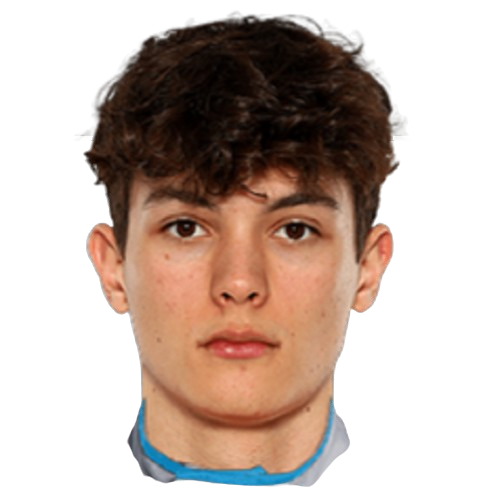
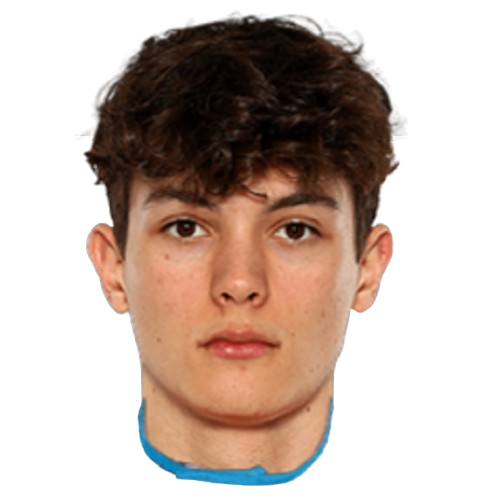
skuska vyber jazdcov

Changed region(s): [[0.54, 0.81, 0.72, 0.99], [0.24, 0.84, 0.36, 0.99]]

diff --git a/F1 Manager 2026/Picking Team/Drivers_Pick.xaml b/F1 Manager 2026/Picking Team/Drivers_Pick.xaml
@@ -1,13 +1,7 @@
 <Window x:Class="F1_Manager_2026.Picking_Team.Drivers_Pick"
         xmlns="http://schemas.microsoft.com/winfx/2006/xaml/presentation"
         xmlns:x="http://schemas.microsoft.com/winfx/2006/xaml"
-        xmlns:d="http://schemas.microsoft.com/expression/blend/2008"
-        xmlns:mc="http://schemas.openxmlformats.org/markup-compatibility/2006"
-        xmlns:local="clr-namespace:F1_Manager_2026.Picking_Team"
-        WindowState="Maximized"
-        WindowStyle="None"
-        mc:Ignorable="d"
-        Title="Drivers_Pick" Height="1080" Width="1920">
+        WindowState="Maximized" WindowStyle="None" Title="Drivers_Pick" Height="1080" Width="1920">
 
     <Grid Background="#0F0F0F">
         <Grid.RowDefinitions>
@@ -22,106 +16,51 @@
                 <Setter Property="BorderThickness" Value="2"/>
                 <Setter Property="CornerRadius" Value="8"/>
                 <Setter Property="Margin" Value="15"/>
-                <Setter Property="Width" Value="220"/>
-                <Setter Property="Height" Value="320"/>
-                <Setter Property="Cursor" Value="Hand"/>
-
-                <Setter Property="RenderTransformOrigin" Value="0.5,0.5"/>
-                <Setter Property="RenderTransform">
-                    <Setter.Value>
-                        <ScaleTransform ScaleX="1" ScaleY="1"/>
-                    </Setter.Value>
-                </Setter>
-
+                <Setter Property="Width" Value="250"/>
+                <Setter Property="Height" Value="380"/>
                 <Style.Triggers>
                     <Trigger Property="IsMouseOver" Value="True">
                         <Setter Property="BorderBrush" Value="Red"/>
-
-                        <Setter Property="Effect">
-                            <Setter.Value>
-                                <DropShadowEffect Color="Red" BlurRadius="20" ShadowDepth="0" Opacity="0.7"/>
-                            </Setter.Value>
-                        </Setter>
-
-                        <Trigger.EnterActions>
-                            <BeginStoryboard>
-                                <Storyboard>
-                                    <DoubleAnimation Storyboard.TargetProperty="RenderTransform.(ScaleTransform.ScaleX)"
-                                                     To="1.05" Duration="0:0:0.2"/>
-                                    <DoubleAnimation Storyboard.TargetProperty="RenderTransform.(ScaleTransform.ScaleY)"
-                                                     To="1.05" Duration="0:0:0.2"/>
-                                </Storyboard>
-                            </BeginStoryboard>
-                        </Trigger.EnterActions>
-
-                        <Trigger.ExitActions>
-                            <BeginStoryboard>
-                                <Storyboard>
-                                    <DoubleAnimation Storyboard.TargetProperty="RenderTransform.(ScaleTransform.ScaleX)"
-                                                     To="1" Duration="0:0:0.2"/>
-                                    <DoubleAnimation Storyboard.TargetProperty="RenderTransform.(ScaleTransform.ScaleY)"
-                                                     To="1" Duration="0:0:0.2"/>
-                                </Storyboard>
-                            </BeginStoryboard>
-                        </Trigger.ExitActions>
                     </Trigger>
                 </Style.Triggers>
             </Style>
         </Grid.Resources>
-        <Border Grid.Row="0" VerticalAlignment="Top" Height="80" Background="#1A1A1A" BorderBrush="Red" BorderThickness="0,0,0,3">
-            <Label Content="F1 DRIVER SELECTION 2026" Foreground="White" FontSize="32" FontFamily="Bahnschrift" 
-                   HorizontalAlignment="Center" VerticalAlignment="Center" FontWeight="Bold"/>
+
+        <Border Grid.Row="0" Background="#1A1A1A" BorderBrush="Red" BorderThickness="0,0,0,3">
+            <Label Content="F1 DRIVER SELECTION 2026" Foreground="White" FontSize="32" HorizontalAlignment="Center" VerticalAlignment="Center" FontWeight="Bold"/>
         </Border>
 
-        <ScrollViewer Grid.Row="1" VerticalScrollBarVisibility="Auto" Margin="20">
-            <WrapPanel Width="1860">
-
-                <Border Style="{StaticResource DriverCardStyle}">
-                    <Grid>
-                        <StackPanel Margin="10">
-                            <TextBlock Text="92" Foreground="Red" FontSize="36" FontWeight="Bold" HorizontalAlignment="Right" Margin="0,0,5,0" FontFamily="Bahnschrift"/>
-
-                            <Ellipse Width="110" Height="110" Fill="#252525" Stroke="#444" StrokeThickness="1" Margin="0,5,0,15"/>
-
-                            <TextBlock Text="Max Verstappen" Foreground="White" FontSize="18" FontWeight="Bold" HorizontalAlignment="Center" FontFamily="Bahnschrift"/>
-                            <TextBlock Text="Red Bull Racing" Foreground="#AAA" FontSize="12" HorizontalAlignment="Center" Margin="0,2,0,15"/>
-
-                            <Separator Background="#333" Margin="15,0"/>
-
-                            <TextBlock Text="COST: $25.0M" Foreground="White" FontSize="14" HorizontalAlignment="Center" Margin="0,15,0,0" FontWeight="Bold"/>
-                        </StackPanel>
-                    </Grid>
-                </Border>
-
-                <Border Style="{StaticResource DriverCardStyle}">
-                    <Grid>
-                        <StackPanel Margin="10">
-                            <TextBlock Text="89" Foreground="Red" FontSize="36" FontWeight="Bold" HorizontalAlignment="Right" Margin="0,0,5,0" FontFamily="Bahnschrift"/>
-                            <Ellipse Width="110" Height="110" Fill="#252525" Stroke="#444" StrokeThickness="1" Margin="0,5,0,15"/>
-                            <TextBlock Text="Charles Leclerc" Foreground="White" FontSize="18" FontWeight="Bold" HorizontalAlignment="Center" FontFamily="Bahnschrift"/>
-                            <TextBlock Text="Ferrari" Foreground="#AAA" FontSize="12" HorizontalAlignment="Center" Margin="0,2,0,15"/>
-                            <Separator Background="#333" Margin="15,0"/>
-                            <TextBlock Text="COST: $22.0M" Foreground="White" FontSize="14" HorizontalAlignment="Center" Margin="0,15,0,0" FontWeight="Bold"/>
-                        </StackPanel>
-                    </Grid>
-                </Border>
-
-                <Border Style="{StaticResource DriverCardStyle}">
-                    <Grid>
-                        <StackPanel Margin="10">
-                            <TextBlock Text="88" Foreground="Red" FontSize="36" FontWeight="Bold" HorizontalAlignment="Right" Margin="0,0,5,0" FontFamily="Bahnschrift"/>
-                            <Ellipse Width="110" Height="110" Fill="#252525" Stroke="#444" StrokeThickness="1" Margin="0,5,0,15"/>
-                            <TextBlock Text="Lando Norris" Foreground="White" FontSize="18" FontWeight="Bold" HorizontalAlignment="Center" FontFamily="Bahnschrift"/>
-                            <TextBlock Text="McLaren" Foreground="#AAA" FontSize="12" HorizontalAlignment="Center" Margin="0,2,0,15"/>
-                            <Separator Background="#333" Margin="15,0"/>
-                            <TextBlock Text="COST: $20.0M" Foreground="White" FontSize="14" HorizontalAlignment="Center" Margin="0,15,0,0" FontWeight="Bold"/>
-                        </StackPanel>
-                    </Grid>
-                </Border>
-
-            </WrapPanel>
+        <ScrollViewer Grid.Row="1" VerticalScrollBarVisibility="Auto" Margin="10">
+            <ItemsControl x:Name="DriversItemsControl">
+                <ItemsControl.ItemsPanel>
+                    <ItemsPanelTemplate>
+                        <WrapPanel HorizontalAlignment="Center"/>
+                    </ItemsPanelTemplate>
+                </ItemsControl.ItemsPanel>
+                <ItemsControl.ItemTemplate>
+                    <DataTemplate>
+                        <Border Style="{StaticResource DriverCardStyle}">
+                            <Grid>
+                                <Grid.RowDefinitions>
+                                    <RowDefinition Height="Auto"/>
+                                    <RowDefinition Height="*"/>
+                                    <RowDefinition Height="Auto"/>
+                                </Grid.RowDefinitions>
+                                <TextBlock Text="{Binding Skill}" Foreground="Red" FontSize="32" FontWeight="Bold" HorizontalAlignment="Right" Margin="0,5,10,0" Panel.ZIndex="10"/>
+                                <Grid Grid.Row="1">
+                                    <Image Source="{Binding SuitPath}" VerticalAlignment="Bottom" Stretch="Uniform" Height="220"/>
+                                    <Image Source="{Binding PhotoPath}" Width="160" VerticalAlignment="Top" Stretch="Uniform" Margin="0,10,0,0"/>
+                                </Grid>
+                                <StackPanel Grid.Row="2" Background="#111" Margin="2">
+                                    <TextBlock Text="{Binding Name}" Foreground="White" FontSize="18" FontWeight="Bold" HorizontalAlignment="Center" Margin="0,5,0,0"/>
+                                    <TextBlock Text="{Binding Team}" Foreground="#888" FontSize="12" HorizontalAlignment="Center" Margin="0,0,0,5"/>
+                                    <TextBlock Text="{Binding FormattedCost}" Foreground="White" FontSize="16" HorizontalAlignment="Center" Margin="0,10,0,10" FontWeight="Bold"/>
+                                </StackPanel>
+                            </Grid>
+                        </Border>
+                    </DataTemplate>
+                </ItemsControl.ItemTemplate>
+            </ItemsControl>
         </ScrollViewer>
-        <Label Name="Money_Label" Foreground="White" FontSize="50" HorizontalContentAlignment="Center" Content="" HorizontalAlignment="Left" Margin="20,-11,0,0" VerticalAlignment="Top" Height="70" Width="649"/>
-
     </Grid>
 </Window>

diff --git a/F1 Manager 2026/Picking Team/Main_TeamChoosing.xaml b/F1 Manager 2026/Picking Team/Main_TeamChoosing.xaml
@@ -42,7 +42,7 @@
             <Label Content="SELECT YOUR ORIGIN / TEAM" Foreground="White" FontSize="18" HorizontalAlignment="Center" FontFamily="Bahnschrift" Margin="0,0,0,20"/>
 
             <UniformGrid Columns="4" Width="400" Height="80">
-                <Button Content="1" Margin="5,0,5,0" Background="#222" Foreground="White" FontSize="28" BorderBrush="White" Click="Button_Click" Cursor="Hand" Height="70" VerticalAlignment="Center"/>
+                <Button Content="1" Margin="5,0,5,5" Background="#222" Foreground="White" FontSize="28" BorderBrush="White" Click="Button_Click" Cursor="Hand" Height="70" VerticalAlignment="Bottom"/>
                 <Button Content="2" Margin="5" Background="#222" Foreground="White" FontSize="28" BorderBrush="White" Click="Button_Click_1" Cursor="Hand"/>
                 <Button Content="3" Margin="5" Background="#222" Foreground="White" FontSize="28" BorderBrush="White" Click="Button_Click_2" Cursor="Hand"/>
                 <Button Content="4" Margin="5" Background="#222" Foreground="White" FontSize="28" BorderBrush="White" Click="Button_Click_3" Cursor="Hand"/>

diff --git a/F1 Manager 2026/Options.xaml b/F1 Manager 2026/Options.xaml
@@ -73,7 +73,7 @@
             </Button>
         </StackPanel>
 
-        <Button Content="Button" 
+        <Button Content="Testing" 
                 HorizontalAlignment="Right" 
                 VerticalAlignment="Bottom" 
                 Margin="0,0,50,50" 

diff --git a/F1 Manager 2026/Drivers.cs b/F1 Manager 2026/Drivers.cs
@@ -1,107 +1,124 @@
 using System;
 using System.Collections.Generic;
-using System.Text;
-using static F1_Manager_2026.Drivers;
 
 namespace F1_Manager_2026
 {
     public class Drivers
     {
+        private string _team;
         public string Name { get; set; }
         public int Number { get; set; }
-        public string PhotoPath { get; set; } // Cesta k obrázku v Resources
+        public string PhotoPath { get; set; }
+        public string SuitPath { get; private set; } // Nastavuje sa automaticky cez Team
         public int Skill { get; set; }
-        public string Team { get; set; }
 
-        // McLAREN
+        public string Team
+        {
+            get => _team;
+            set
+            {
+                _team = value;
+                UpdateSuitPath(); // Automatická zmena kombinézy pri zmene tímu
+            }
+        }
+
+        public string FormattedCost => $"COST: ${((Skill - 60) * 0.8):F1}M";
+
+        // Logika priradenia kombinézy podľa názvu tímu
+        private void UpdateSuitPath()
+        {
+            string folder = "Assets/Suits/";
+            SuitPath = _team switch
+            {
+                "McLaren" => folder + "suit_mclaren.png",
+                "Ferrari" => folder + "suit_ferrari.png",
+                "Red Bull Racing" => folder + "suit_redbull.png",
+                "Mercedes" => folder + "suit_mercedes.png",
+                "Aston Martin" => folder + "suit_astonmartin.png",
+                "Alpine" => folder + "suit_alpine.png",
+                "Haas" => folder + "suit_haas.png",
+                "RB" => folder + "suit_rb.png",
+                "Williams" => folder + "suit_williams.png",
+                "Cadillac" => folder + "suit_cadillac.png",
+                "Audi" => folder + "suit_audi.png",
+                "ART Grand Prix" => folder + "suit_art.png",
+                "Invicta Racing" => folder + "suit_invicta.png",
+                "MP Motorsport" => folder + "suit_mp.png",
+                "Campos Racing" => folder + "suit_campos.png",
+                "Rodin Motorsport" => folder + "suit_rodin.png",
+                "DAMS Lucas Oil" => folder + "suit_dams.png",
+                "Trident" => folder + "suit_trident.png",
+                "Hitech" => folder + "suit_hitech.png",
+                "Prema" => folder + "suit_prema.png",
+                "Van Amersfoort Racing" => folder + "suit_var.png",
+                "AIX Racing" => folder + "suit_aix.png",
+                _ => folder + "suit_default.png"
+            };
+        }
+
+        // --- F1 DRIVERS ---
         public static Drivers Lando_Norris = new Drivers { Name = "Lando Norris", Number = 4, PhotoPath = "/Images/norris.png", Skill = 95, Team = "McLaren" };
         public static Drivers Oscar_Piastri = new Drivers { Name = "Oscar Piastri", Number = 81, PhotoPath = "/Images/piastri.png", Skill = 92, Team = "McLaren" };
-
-        // FERRARI
         public static Drivers Charles_Leclerc = new Drivers { Name = "Charles Leclerc", Number = 16, PhotoPath = "/Images/leclerc.png", Skill = 94, Team = "Ferrari" };
         public static Drivers Lewis_Hamilton = new Drivers { Name = "Lewis Hamilton", Number = 44, PhotoPath = "/Images/hamilton.png", Skill = 93, Team = "Ferrari" };
-
-        // RED BULL RACING
         public static Drivers Max_Verstappen = new Drivers { Name = "Max Verstappen", Number = 33, PhotoPath = "/Images/verstappen.png", Skill = 96, Team = "Red Bull Racing" };
         public static Drivers Isack_Hadjar = new Drivers { Name = "Isack Hadjar", Number = 6, PhotoPath = "/Images/hadjar.png", Skill = 80, Team = "Red Bull Racing" };
-
-        // MERCEDES
         public static Drivers George_Russell = new Drivers { Name = "George Russell", Number = 63, PhotoPath = "/Images/russell.png", Skill = 90, Team = "Mercedes" };
         public static Drivers Kimi_Antonelli = new Drivers { Name = "Kimi Antonelli", Number = 12, PhotoPath = "/Images/antonelli.png", Skill = 84, Team = "Mercedes" };
-
-        // ASTON MARTIN
         public static Drivers Fernando_Alonso = new Drivers { Name = "Fernando Alonso", Number = 14, PhotoPath = "/Images/alonso.png", Skill = 88, Team = "Aston Martin" };
         public static Drivers Lance_Stroll = new Drivers { Name = "Lance Stroll", Number = 18, PhotoPath = "/Images/stroll.png", Skill = 78, Team = "Aston Martin" };
-
-        // ALPINE
         public static Drivers Pierre_Gasly = new Drivers { Name = "Pierre Gasly", Number = 10, PhotoPath = "/Images/gasly.png", Skill = 85, Team = "Alpine" };
         public static Drivers Franco_Colapinto = new Drivers { Name = "Franco Colapinto", Number = 43, PhotoPath = "/Images/colapinto.png", Skill = 82, Team = "Alpine" };
-
-        // HAAS
         public static Drivers Oliver_Bearman = new Drivers { Name = "Oliver Bearman", Number = 87, PhotoPath = "/Images/bearman.png", Skill = 81, Team = "Haas" };
         public static Drivers Esteban_Ocon = new Drivers { Name = "Esteban Ocon", Number = 31, PhotoPath = "/Images/ocon.png", Skill = 83, Team = "Haas" };
-
-        // RB (Racing Bulls)
         public static Drivers Liam_Lawson = new Drivers { Name = "Liam Lawson", Number = 30, PhotoPath = "/Images/lawson.png", Skill = 83, Team = "RB" };
         public static Drivers Arvid_Lindblad = new Drivers { Name = "Arvid Lindblad", Number = 41, PhotoPath = "/Images/lindblad.png", Skill = 79, Team = "RB" };
-
-        // WILLIAMS
         public static Drivers Alex_Albon = new Drivers { Name = "Alex Albon", Number = 23, PhotoPath = "/Images/albon.png", Skill = 86, Team = "Williams" };
         public static Drivers Carlos_Sainz = new Drivers { Name = "Carlos Sainz", Number = 55, PhotoPath = "/Images/sainz.png", Skill = 91, Team = "Williams" };
-
-        // CADILLAC
         public static Drivers Valtteri_Bottas = new Drivers { Name = "Valtteri Bottas", Number = 77, PhotoPath = "/Images/bottas.png", Skill = 84, Team = "Cadillac" };
         public static Drivers Sergio_Perez = new Drivers { Name = "Sergio Perez", Number = 11, PhotoPath = "/Images/perez.png", Skill = 82, Team = "Cadillac" };
-
-        // AUDI
         public static Drivers Nico_Hulkenberg = new Drivers { Name = "Nico Hulkenberg", Number = 27, PhotoPath = "/Images/hulkenberg.png", Skill = 84, Team = "Audi" };
         public static Drivers Gabriel_Bortoleto = new Drivers { Name = "Gabriel Bortoleto", Number = 5, PhotoPath = "/Images/bortoleto.png", Skill = 80, Team = "Audi" };
 
-        /// F2 -------------------------------------------------------------------------------------------------------------------------------------------------------------------------
+        // --- F2 DRIVERS (Všetci majú default.png) ---
+        public static Drivers Tasanapol_Inthraphuvasak = new Drivers { Name = "Tasanapol Inthraphuvasak", Number = 1, Team = "ART Grand Prix", Skill = 72, PhotoPath = "/Images/default.png" };
+        public static Drivers Kush_Maini = new Drivers { Name = "Kush Maini", Number = 4, Team = "ART Grand Prix", Skill = 77, PhotoPath = "/Images/default.png" };
+        public static Drivers Joshua_Duerksen = new Drivers { Name = "Joshua Dürksen", Number = 2, Team = "Invicta Racing", Skill = 75, PhotoPath = "/Images/default.png" };
+        public static Drivers Rafael_Camara = new Drivers { Name = "Rafael Câmara", Number = 5, Team = "Invicta Racing", Skill = 78, PhotoPath = "/Images/default.png" };
+        public static Drivers Oliver_Goethe = new Drivers { Name = "Oliver Goethe", Number = 3, Team = "MP Motorsport", Skill = 76, PhotoPath = "/Images/default.png" };
+        public static Drivers Gabriele_Mini = new Drivers { Name = "Gabriele Minì", Number = 21, Team = "MP Motorsport", Skill = 78, PhotoPath = "/Images/default.png" };
+        public static Drivers Nikola_Tsolov = new Drivers { Name = "Nikola Tsolov", Number = 6, Team = "Campos Racing", Skill = 74, PhotoPath = "/Images/default.png" };
+        public static Drivers Noel_Leon = new Drivers { Name = "Noel León", Number = 7, Team = "Campos Racing", Skill = 74, PhotoPath = "/Images/default.png" };
+        public static Drivers Alex_Dunne = new Drivers { Name = "Alex Dunne", Number = 8, Team = "Rodin Motorsport", Skill = 73, PhotoPath = "/Images/default.png" };
+        public static Drivers Martinius_Stenshorne = new Drivers { Name = "Martinius Stenshorne", Number = 9, Team = "Rodin Motorsport", Skill = 72, PhotoPath = "/Images/default.png" };
+        public static Drivers Dino_Beganovic = new Drivers { Name = "Dino Beganovic", Number = 10, Team = "DAMS Lucas Oil", Skill = 77, PhotoPath = "/Images/default.png" };
+        public static Drivers Roman_Bilinski = new Drivers { Name = "Roman Bilinski", Number = 12, Team = "DAMS Lucas Oil", Skill = 70, PhotoPath = "/Images/default.png" };
+        public static Drivers Laurens_Van_Hoepen = new Drivers { Name = "Laurens van Hoepen", Number = 11, Team = "Trident", Skill = 73, PhotoPath = "/Images/default.png" };
+        public static Drivers Nixon_Bennett = new Drivers { Name = "Nixon Bennett", Number = 17, Team = "Trident", Skill = 68, PhotoPath = "/Images/default.png" };
+        public static Drivers Ritomo_Miyata = new Drivers { Name = "Ritomo Miyata", Number = 13, Team = "Hitech", Skill = 75, PhotoPath = "/Images/default.png" };
+        public static Drivers Colton_Herta = new Drivers { Name = "Colton Herta", Number = 14, Team = "Hitech", Skill = 82, PhotoPath = "/Images/default.png" };
+        public static Drivers Sebastian_Montoya = new Drivers { Name = "Sebastian Montoya", Number = 15, Team = "Prema", Skill = 71, PhotoPath = "/Images/default.png" };
+        public static Drivers Mari_Boya = new Drivers { Name = "Mari Boya", Number = 22, Team = "Prema", Skill = 72, PhotoPath = "/Images/default.png" };
+        public static Drivers Rafael_Villagomez = new Drivers { Name = "Rafael Villagómez", Number = 16, Team = "Van Amersfoort Racing", Skill = 70, PhotoPath = "/Images/default.png" };
+        public static Drivers Nicolas_Varrone = new Drivers { Name = "Nicolás Varrone", Number = 19, Team = "Van Amersfoort Racing", Skill = 71, PhotoPath = "/Images/default.png" };
+        public static Drivers Emerson_Fittipaldi = new Drivers { Name = "Emerson Fittipaldi Jr.", Number = 18, Team = "AIX Racing", Skill = 76, PhotoPath = "/Images/default.png" };
+        public static Drivers Devlin_Shields = new Drivers { Name = "Devlin Shields", Number = 20, Team = "AIX Racing", Skill = 67, PhotoPath = "/Images/default.png" };
 
-        // ART GRAND PRIX
-        public static Drivers Tasanapol_Inthraphuvasak = new Drivers { Name = "Tasanapol Inthraphuvasak", Number = 1, Team = "ART Grand Prix", Skill = 72 };
-        public static Drivers Kush_Maini = new Drivers { Name = "Kush Maini", Number = 4, Team = "ART Grand Prix", Skill = 77 };
-
-        // INVICTA RACING
-        public static Drivers Joshua_Duerksen = new Drivers { Name = "Joshua Dürksen", Number = 2, Team = "Invicta Racing", Skill = 75 };
-        public static Drivers Rafael_Camara = new Drivers { Name = "Rafael Câmara", Number = 5, Team = "Invicta Racing", Skill = 78 };
-
-        // MP MOTORSPORT
-        public static Drivers Oliver_Goethe = new Drivers { Name = "Oliver Goethe", Number = 3, Team = "MP Motorsport", Skill = 76 };
-        public static Drivers Gabriele_Mini = new Drivers { Name = "Gabriele Minì", Number = 21, Team = "MP Motorsport", Skill = 78 };
-
-        // CAMPOS RACING
-        public static Drivers Nikola_Tsolov = new Drivers { Name = "Nikola Tsolov", Number = 6, Team = "Campos Racing", Skill = 74 };
-        public static Drivers Noel_Leon = new Drivers { Name = "Noel León", Number = 7, Team = "Campos Racing", Skill = 74 };
-
-        // RODIN MOTORSPORT
-        public static Drivers Alex_Dunne = new Drivers { Name = "Alex Dunne", Number = 8, Team = "Rodin Motorsport", Skill = 73 };
-        public static Drivers Martinius_Stenshorne = new Drivers { Name = "Martinius Stenshorne", Number = 9, Team = "Rodin Motorsport", Skill = 72 };
-
-        // DAMS LUCAS OIL
-        public static Drivers Dino_Beganovic = new Drivers { Name = "Dino Beganovic", Number = 10, Team = "DAMS Lucas Oil", Skill = 77 };
-        public static Drivers Roman_Bilinski = new Drivers { Name = "Roman Bilinski", Number = 12, Team = "DAMS Lucas Oil", Skill = 70 };
-
-        // TRIDENT
-        public static Drivers Laurens_Van_Hoepen = new Drivers { Name = "Laurens van Hoepen", Number = 11, Team = "Trident", Skill = 73 };
-        public static Drivers Nixon_Bennett = new Drivers { Name = "Nixon Bennett", Number = 17, Team = "Trident", Skill = 68 };
-
-        // HITECH
-        public static Drivers Ritomo_Miyata = new Drivers { Name = "Ritomo Miyata", Number = 13, Team = "Hitech", Skill = 75 };
-        public static Drivers Colton_Herta = new Drivers { Name = "Colton Herta", Number = 14, Team = "Hitech", Skill = 82 };
-
-        // PREMA
-        public static Drivers Sebastian_Montoya = new Drivers { Name = "Sebastian Montoya", Number = 15, Team = "Prema", Skill = 71 };
-        public static Drivers Mari_Boya = new Drivers { Name = "Mari Boya", Number = 22, Team = "Prema", Skill = 72 };
-
-        // VAN AMERSFOORT RACING (VAR)
-        public static Drivers Rafael_Villagomez = new Drivers { Name = "Rafael Villagómez", Number = 16, Team = "Van Amersfoort Racing", Skill = 70 };
-        public static Drivers Nicolas_Varrone = new Drivers { Name = "Nicolás Varrone", Number = 19, Team = "Van Amersfoort Racing", Skill = 71 };
-
-        // AIX RACING
-        public static Drivers Emerson_Fittipaldi = new Drivers { Name = "Emerson Fittipaldi Jr.", Number = 18, Team = "AIX Racing", Skill = 76 };
-        public static Drivers Devlin_Shields = new Drivers { Name = "Devlin Shields", Number = 20, Team = "AIX Racing", Skill = 67 };
-
+        public static List<Drivers> GetAllDrivers()
+        {
+            return new List<Drivers>
+            {
+                Max_Verstappen, Lando_Norris, Charles_Leclerc, Lewis_Hamilton, Oscar_Piastri,
+                Carlos_Sainz, George_Russell, Fernando_Alonso, Alex_Albon, Pierre_Gasly,
+                Valtteri_Bottas, Nico_Hulkenberg, Kimi_Antonelli, Esteban_Ocon, Liam_Lawson,
+                Franco_Colapinto, Sergio_Perez, Colton_Herta, Oliver_Bearman, Isack_Hadjar,
+                Gabriel_Bortoleto, Arvid_Lindblad, Lance_Stroll,
+                Tasanapol_Inthraphuvasak, Kush_Maini, Joshua_Duerksen, Rafael_Camara,
+                Oliver_Goethe, Gabriele_Mini, Nikola_Tsolov, Noel_Leon, Alex_Dunne,
+                Martinius_Stenshorne, Dino_Beganovic, Roman_Bilinski, Laurens_Van_Hoepen,
+                Nixon_Bennett, Ritomo_Miyata, Sebastian_Montoya, Mari_Boya,
+                Rafael_Villagomez, Nicolas_Varrone, Emerson_Fittipaldi, Devlin_Shields
+            };
+        }
     }
 }

diff --git a/F1 Manager 2026/Picking Team/Drivers_Pick.xaml.cs b/F1 Manager 2026/Picking Team/Drivers_Pick.xaml.cs
@@ -1,26 +1,13 @@
-using System;
-using System.Collections.Generic;
-using System.Text;
-using System.Windows;
-using System.Windows.Controls;
-using System.Windows.Data;
-using System.Windows.Documents;
-using System.Windows.Input;
-using System.Windows.Media;
-using System.Windows.Media.Imaging;
-using System.Windows.Shapes;
+using System.Windows;
 
 namespace F1_Manager_2026.Picking_Team
 {
-    /// <summary>
-    /// Interaction logic for Drivers_Pick.xaml
-    /// </summary>
     public partial class Drivers_Pick : Window
     {
         public Drivers_Pick()
         {
             InitializeComponent();
-            Money_Label.Content = $"Budget: ${GameState.Budget:N0}";
+            DriversItemsControl.ItemsSource = Drivers.GetAllDrivers();
         }
     }
 }
